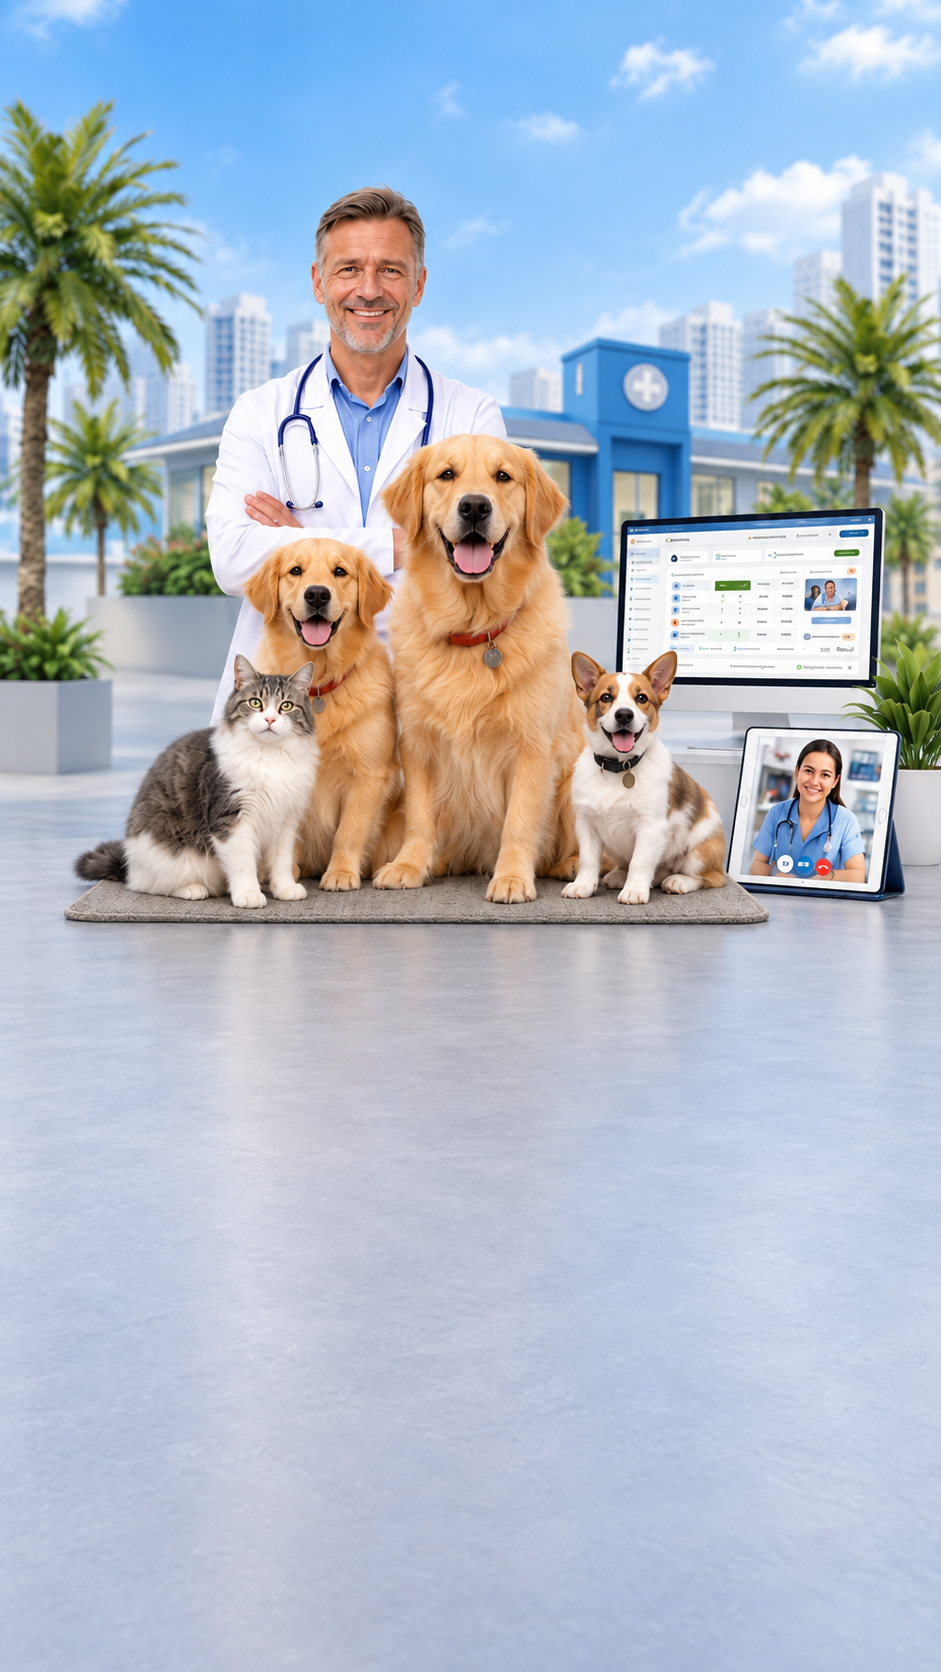
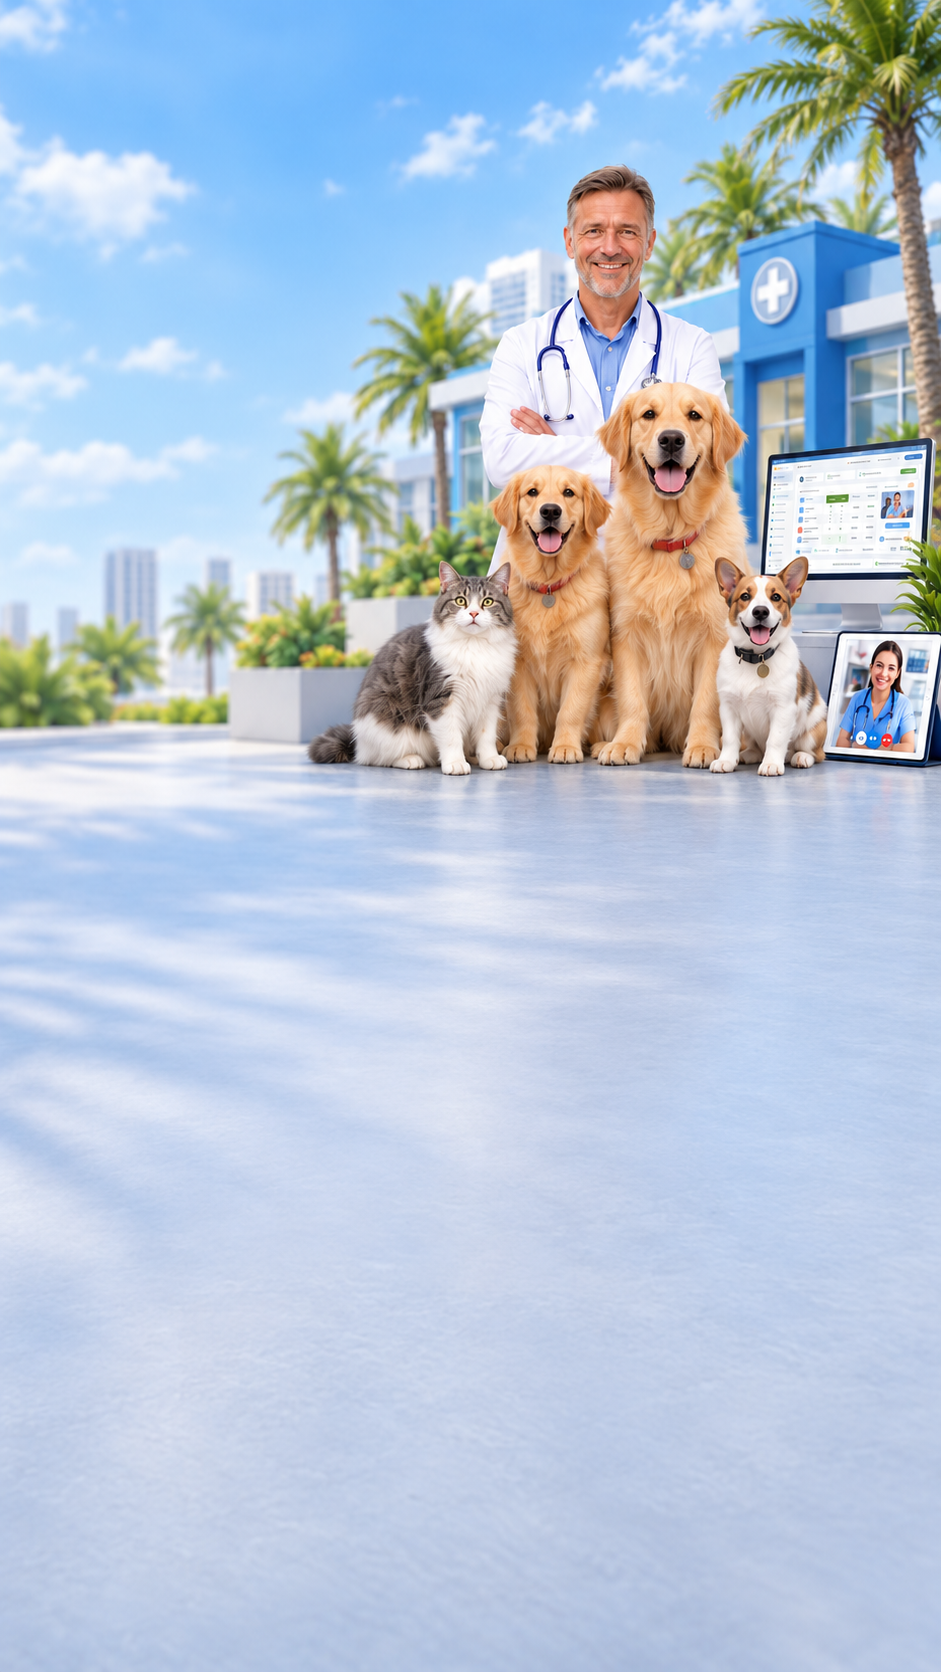
hel

diff --git a/src/index.css b/src/index.css
@@ -416,18 +416,19 @@ body.home-hero-header-transparent .home-hero-v2 {
 
 @media (max-width: 767.98px) {
   .home-hero-v2 {
+    min-height: 640px;
     background-image: url('/assets/img/mobile-hero.png');
     background-position: center top;
   }
 
   .home-hero-v2__content {
-    padding-top: 130px;
+    padding-top: 220px;
   }
 }
 
 @media (max-width: 575.98px) {
   .home-hero-v2 {
-    min-height: 480px;
+    min-height: 700px;
     padding: 52px 0 38px;
   }
 
@@ -438,6 +439,10 @@ body.home-hero-header-transparent .home-hero-v2 {
   .home-hero-v2__title {
     font-size: 32px;
     margin-bottom: 16px;
+  }
+
+  .home-hero-v2__content {
+    padding-top: 250px;
   }
 
   .home-emergency-vet {
